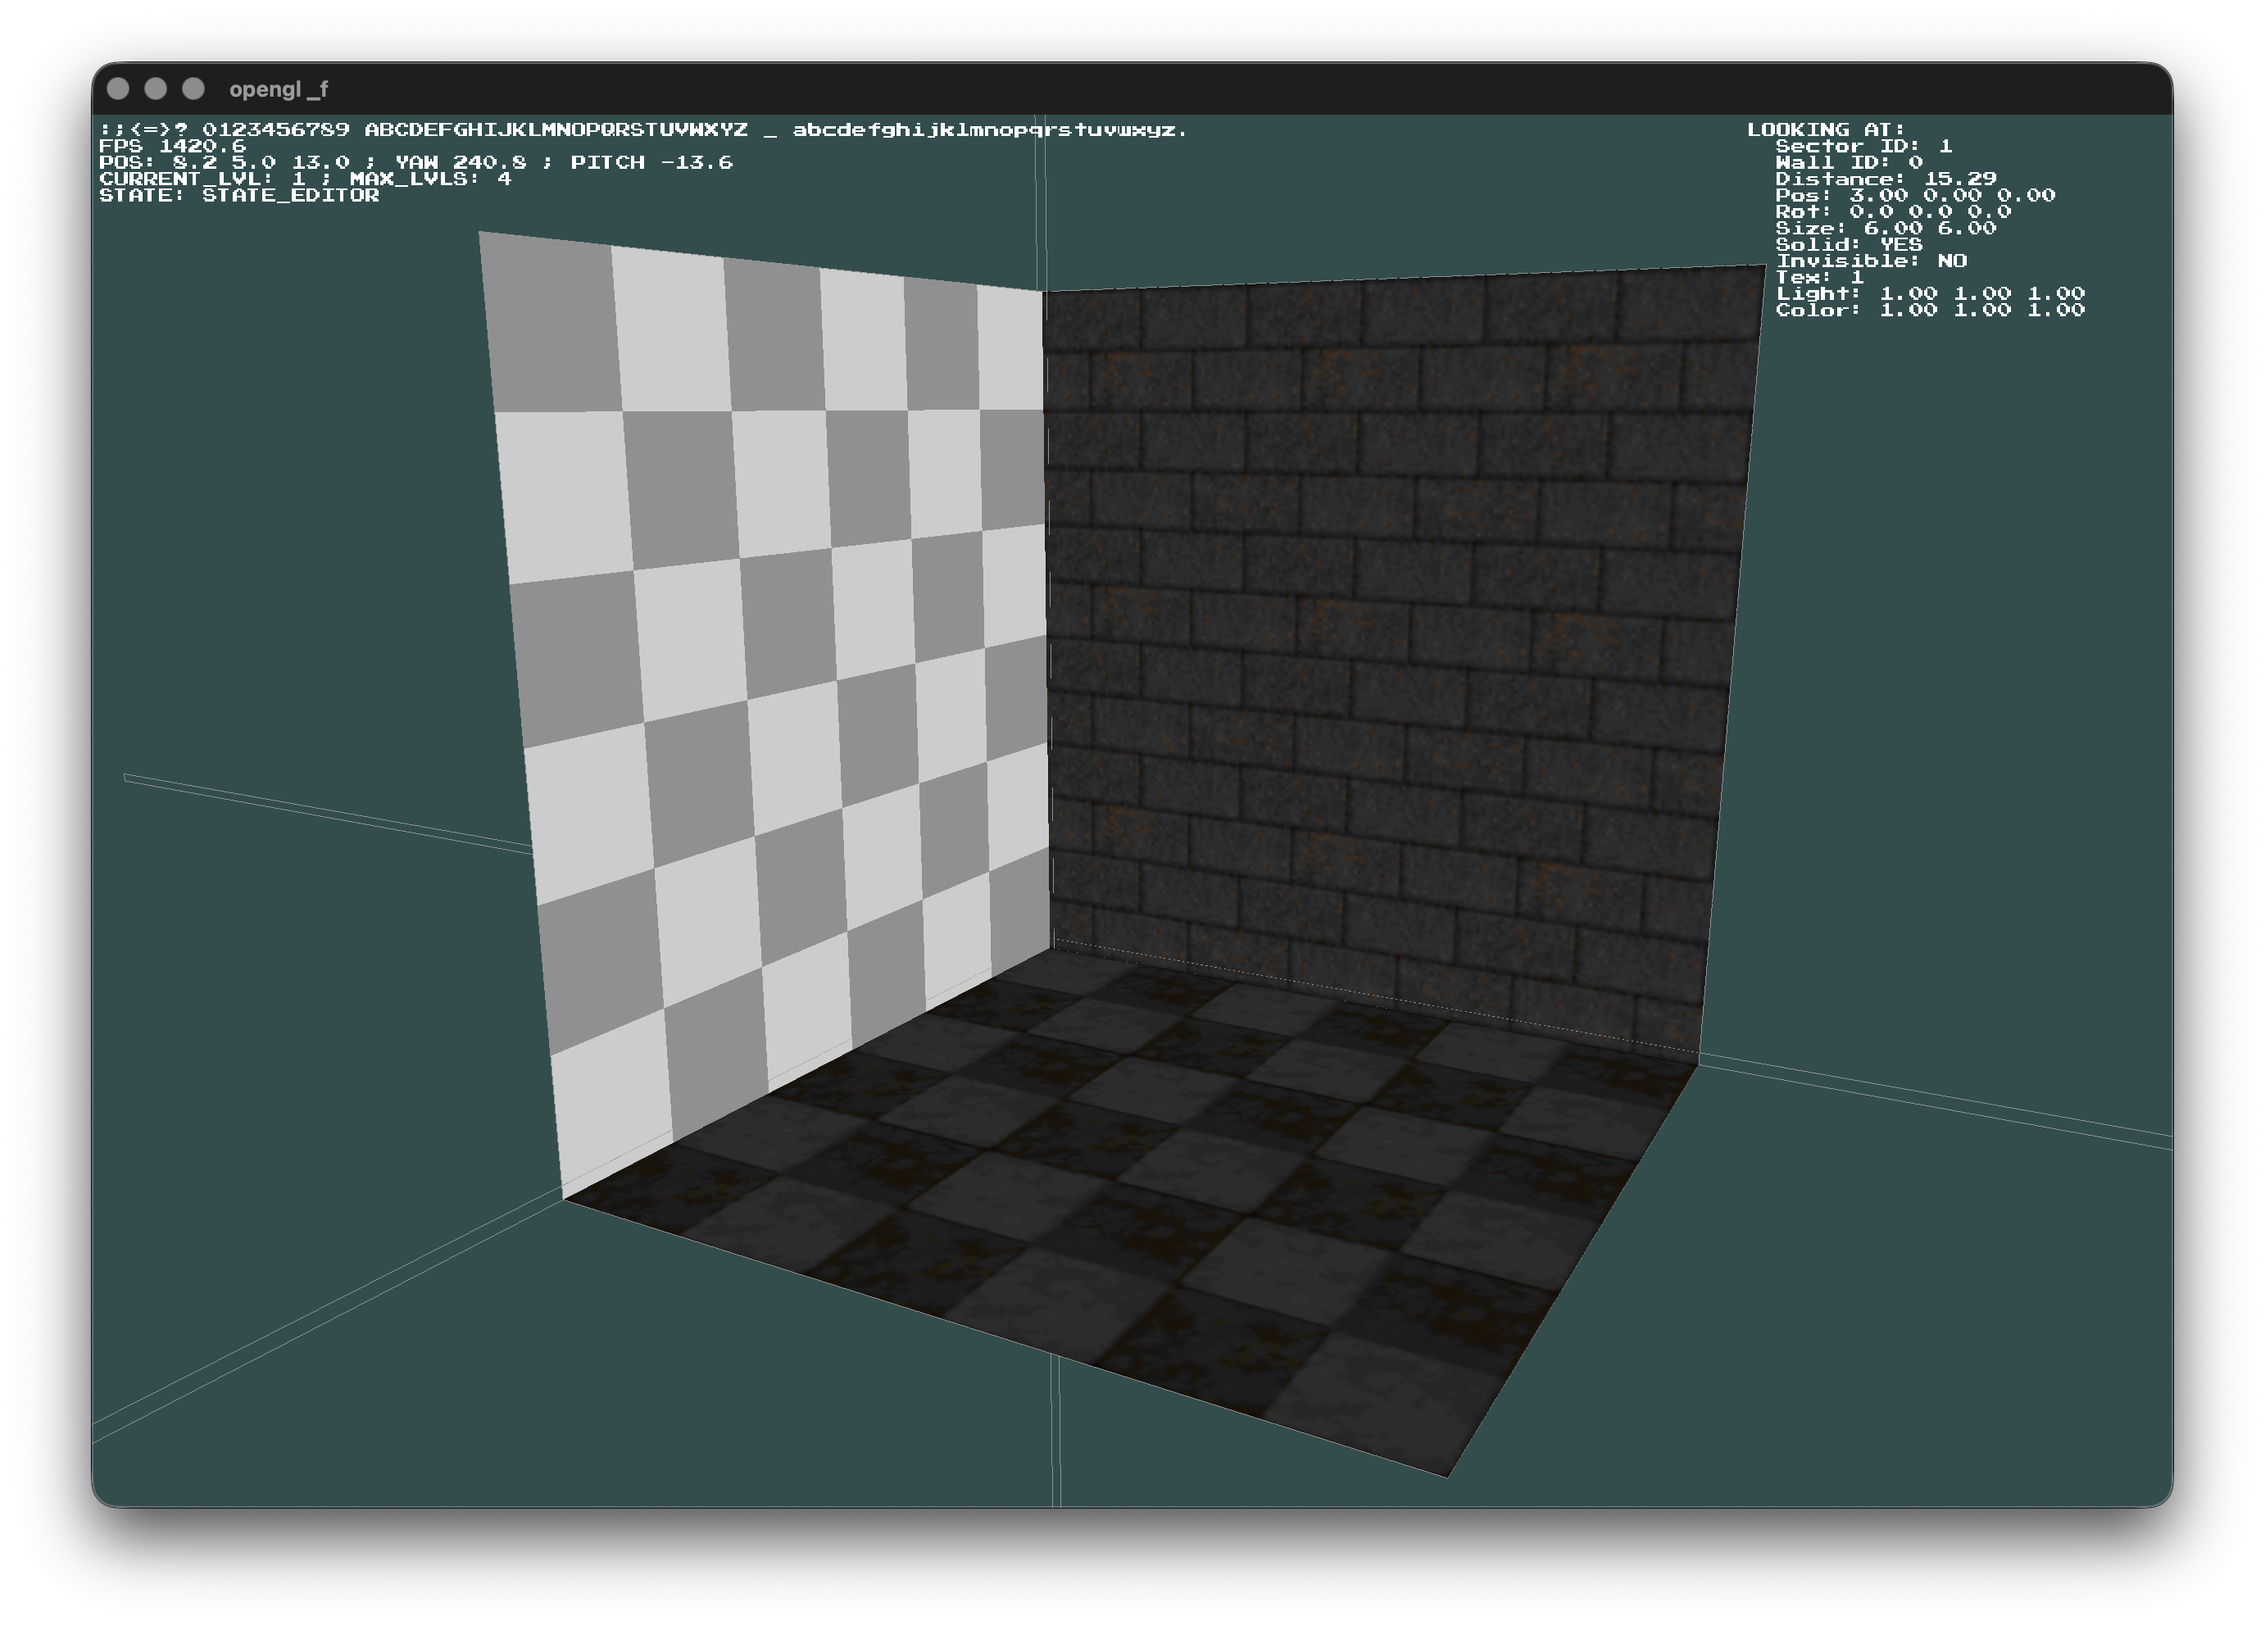
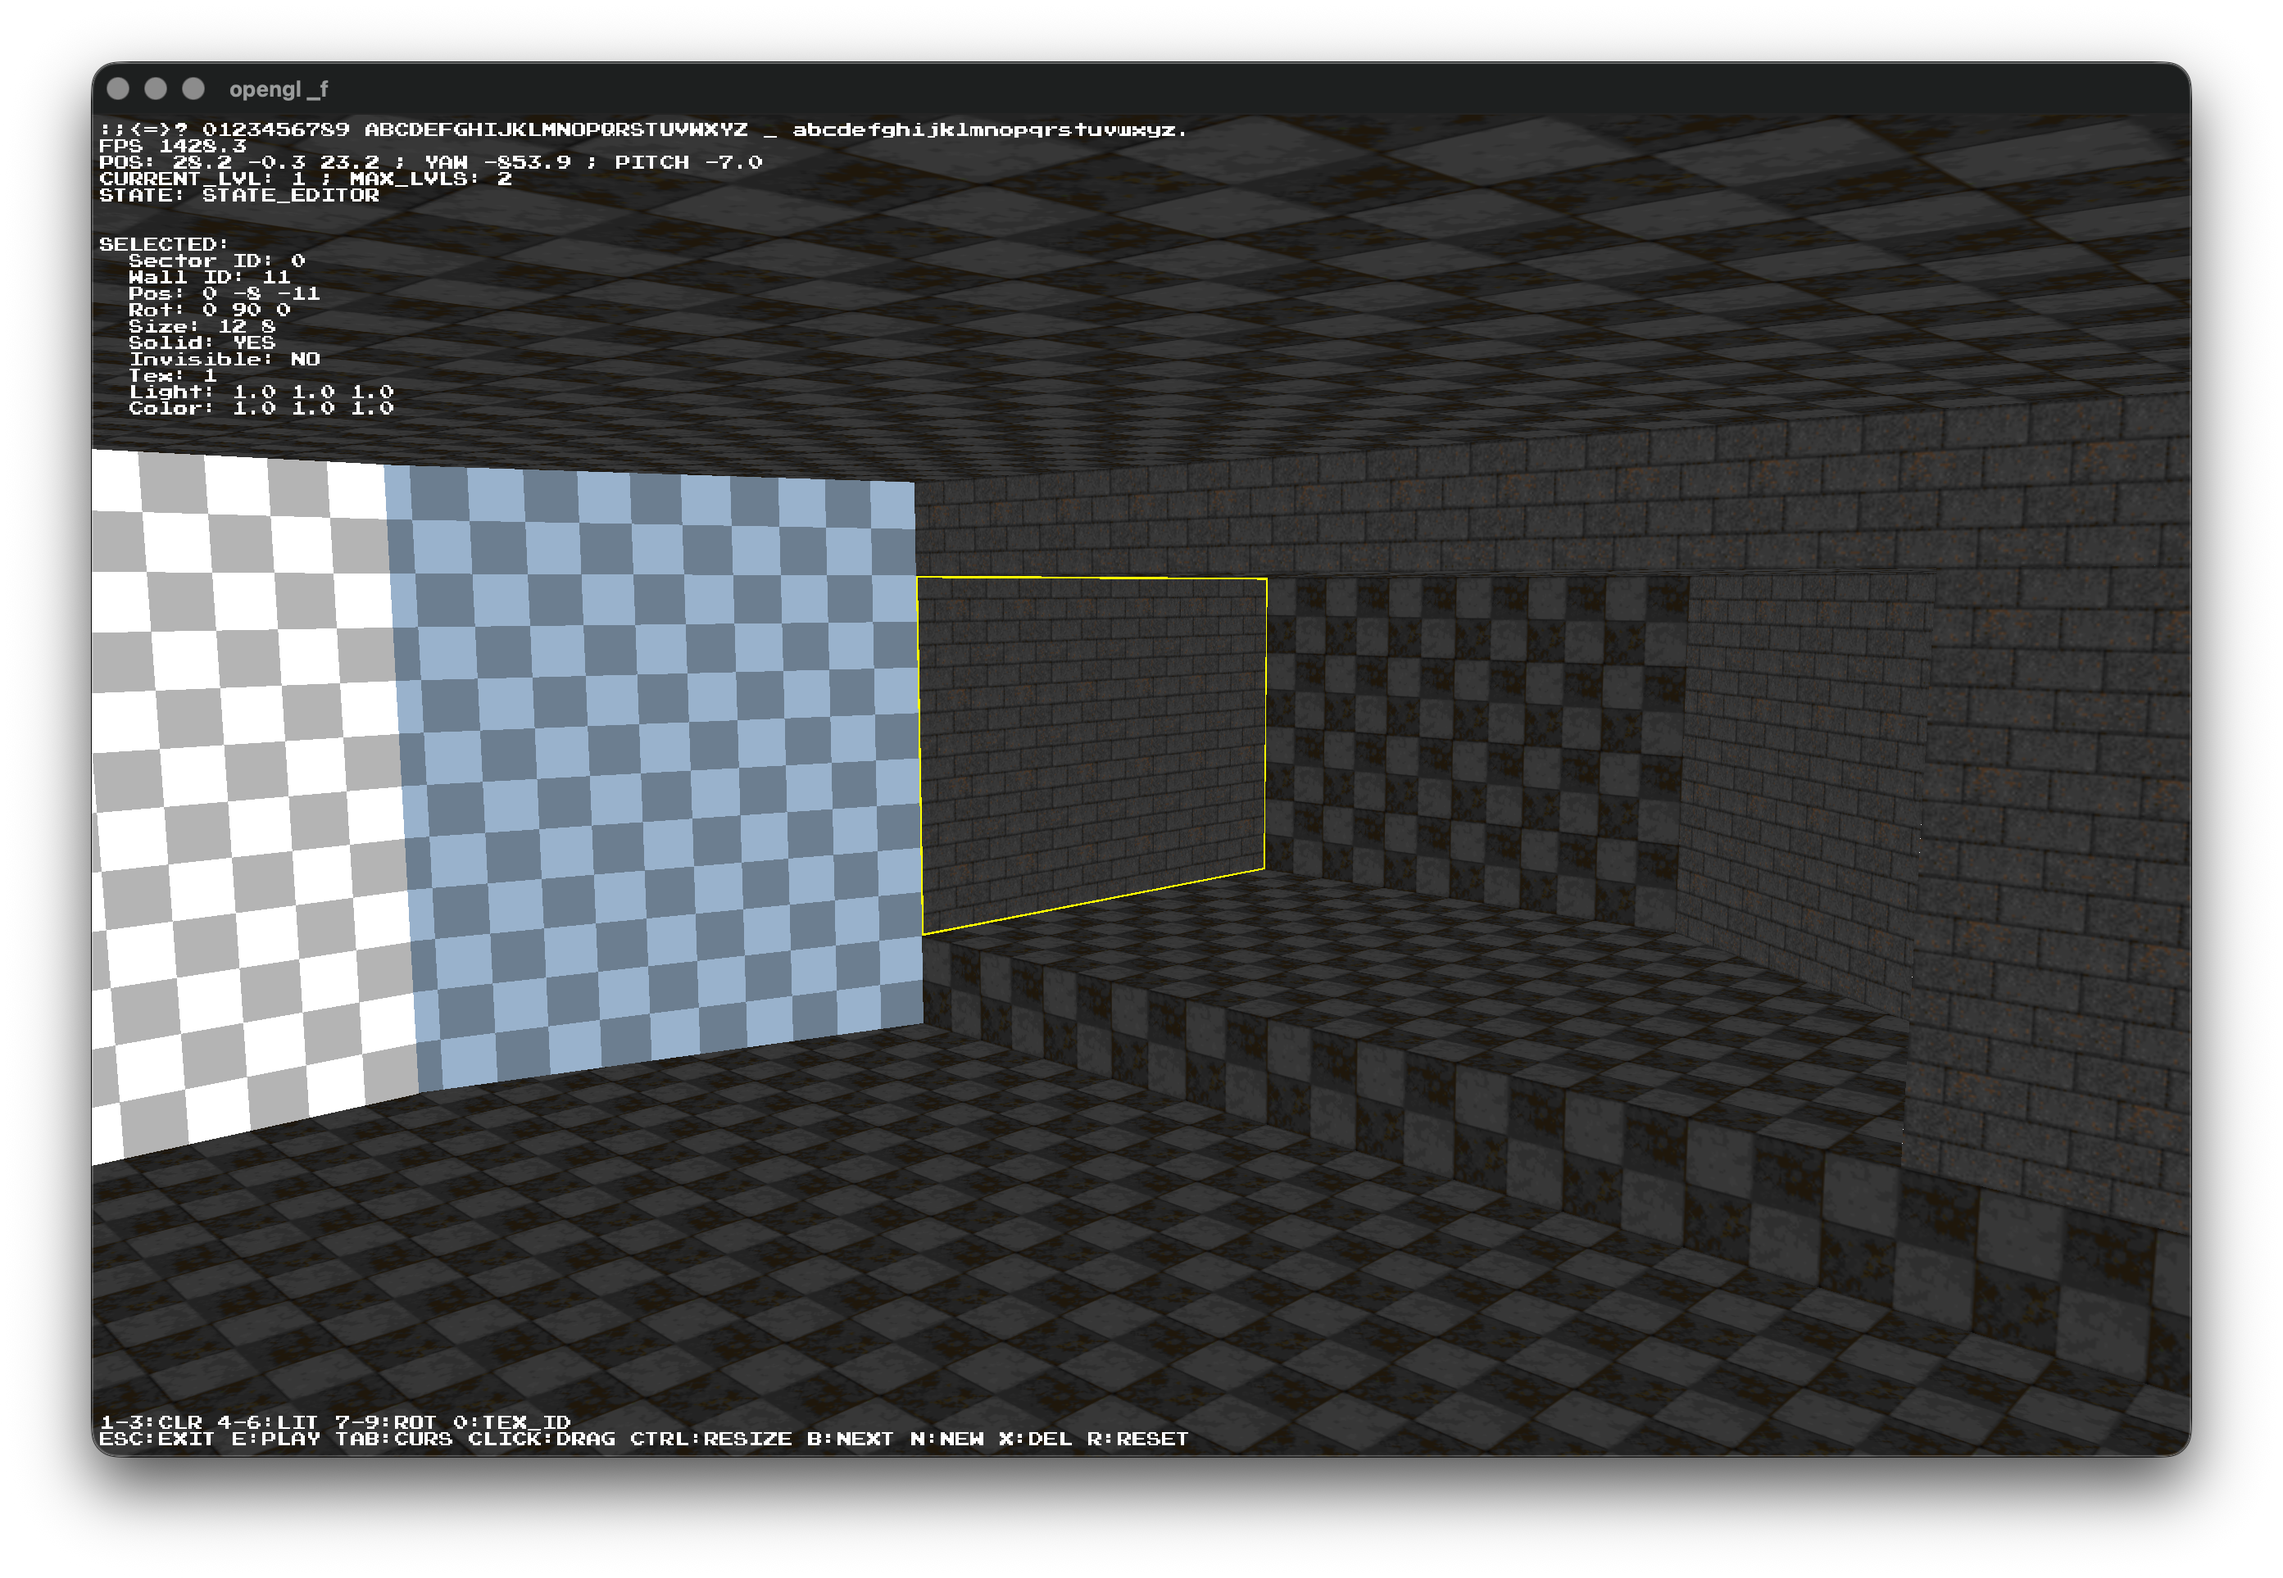
editor video out now

diff --git a/Engine/res/level1.h b/Engine/res/level1.h
@@ -5,7 +5,7 @@
 
 static level_quad_t level1_sector0_quads[] = {
     { .pos = {0, 0, 1}, .rot = {90, 0, 0}, .size = {21, 12}, .tex_idx = 0, .is_solid = true, .is_invisible = false, .color = {1.0f, 1.0f, 1.0f} },
-    { .pos = {-0, 0, 1}, .rot = {0, 0, 0}, .size = {33, 2}, .tex_idx = 1, .is_solid = true, .is_invisible = false, .color = {1.0f, 1.0f, 1.0f} },
+    { .pos = {0, 0, 1}, .rot = {0, 0, 0}, .size = {33, 2}, .tex_idx = 1, .is_solid = true, .is_invisible = false, .color = {1.0f, 1.0f, 1.0f} },
     { .pos = {12, -8, -11}, .rot = {0, 33, 0}, .size = {12, 8}, .tex_idx = 1, .is_solid = true, .is_invisible = false, .color = {1.0f, 1.0f, 1.0f} },
     { .pos = {21, -8, -11}, .rot = {0, 90, 0}, .size = {12, 8}, .tex_idx = -1, .is_solid = true, .is_invisible = false, .color = {1.0f, 1.0f, 1.0f} },
     { .pos = {-3, 2, 23}, .rot = {90, 0, 0}, .size = {31, 22}, .tex_idx = 0, .is_solid = true, .is_invisible = false, .color = {1.0f, 1.0f, 1.0f} },
@@ -13,7 +13,7 @@ static level_quad_t level1_sector0_quads[] = {
     { .pos = {-3, -10, 11}, .rot = {0, 90, 0}, .size = {12, 12}, .tex_idx = -1, .is_solid = true, .is_invisible = false, .color = {1.0f, 1.0f, 1.0f} },
     { .pos = {21, -8, 1}, .rot = {0, 0, 0}, .size = {12, 8}, .tex_idx = 1, .is_solid = true, .is_invisible = false, .color = {1.0f, 1.0f, 1.0f} },
     { .pos = {0, -10, 1}, .rot = {0, 0, 0}, .size = {33, 2}, .tex_idx = 0, .is_solid = true, .is_invisible = false, .color = {1.0f, 1.0f, 1.0f} },
-    { .pos = {-0, -8, 1}, .rot = {90, 0, 0}, .size = {21, 12}, .tex_idx = 0, .is_solid = true, .is_invisible = false, .color = {1.0f, 1.0f, 1.0f} },
+    { .pos = {0, -8, 1}, .rot = {90, 0, 0}, .size = {21, 12}, .tex_idx = 0, .is_solid = true, .is_invisible = false, .color = {1.0f, 1.0f, 1.0f} },
     { .pos = {0, -8, -11}, .rot = {0, 0, 0}, .size = {12, 8}, .tex_idx = 0, .is_solid = true, .is_invisible = false, .color = {1.0f, 1.0f, 1.0f} },
     { .pos = {0, -8, -11}, .rot = {0, 90, 0}, .size = {12, 8}, .tex_idx = 1, .is_solid = true, .is_invisible = false, .color = {1.0f, 1.0f, 1.0f} },
     { .pos = {-5, -10, 24}, .rot = {90, 0, 0}, .size = {37, 23}, .tex_idx = 0, .is_solid = true, .is_invisible = false, .color = {1.0f, 1.0f, 1.0f} },
@@ -35,7 +35,7 @@ static inline level_data_t load_1(void)
         .sectors = level1_sectors,
         .sector_count = sizeof(level1_sectors) / sizeof(level1_sectors[0]),
         .cam_pos = {28.214f, -0.252f, 23.220f},
-        .cam_yaw = -853.918f,
+        .cam_yaw = -854.118f,
         .cam_pitch = -6.985f
     };
 }

diff --git a/main.c b/main.c
@@ -8,9 +8,39 @@
 /*
  * TL:DR
  * > start with 'make'
+ *
  * > press b to switch between all levels
- * > press e to enter editor mode
- * > walk look around w a s d + mouse
+ *
+ * > press tab to toggle between mouse locking
+ *
+ * > press e to switch betwen editor mode ... :
+ *  > at the bottom of the screen is a small legend which button does what 
+ *
+ *  > press 1 2 3 to increase r g b color value ... 
+ *  > press shift + 1 2 3 to decrease r g b color value
+ *
+ *  > press 4 5 6 to increase r g b sector light ...
+ *  > press shift + 4 5 6 to decrease r g b sector light
+ *
+ *  > press 7 8 9 to increase x y z rotational values ...
+ *  > press shift + 7 8 9 to decrease x y z rotational values 
+ *
+ *  > press 0 to cycles through textures
+ *
+ *  > dragging drags the quad 
+ *
+ *  > dragging + ctrl resizes on dragging at pink edges
+ *
+ *  > press n to create a new default quad
+ *  > press n while a quad is selected duplicates that quad 
+ *
+ *  > press x to delete a quad
+ *
+ *  > press r to reset the attributes of a quad
+ *
+ * > and play mode:
+ *  > press w a s d to walk around
+ *  > use mouse to look around
  */
 
 void apply_level_camera(level_data_t* level)

diff --git a/Engine/editor.c b/Engine/editor.c
@@ -58,7 +58,7 @@ static void render_wall_quad(const level_quad_t* quad, const vec4s color)
 
     f32 hx = quad->size.x,
         hy = quad->size.y,
-        t = 0.05f, // Thickness 
+        t = 0.05f, // thickness 
         z = 0.0f;
 
     f32 vertices[] = {
@@ -322,7 +322,6 @@ void editor_update()
         }
     } else x_pressed = false;
 
-    // Discrete/Continuous editing with fixed steps
     static f32 adj_timers[9] = {0};
     static const int adj_keys[] = { GLFW_KEY_1, GLFW_KEY_2, GLFW_KEY_3, GLFW_KEY_4, GLFW_KEY_5, GLFW_KEY_6, GLFW_KEY_7, GLFW_KEY_8, GLFW_KEY_9 };
     for (int i = 0; i < 9; i++) {
@@ -446,7 +445,7 @@ static void render_resize_markers(const level_quad_t* quad, editor_edge_t edge, 
     GLint model_loc = glGetUniformLocation(state.data->program, "model");
     glUniformMatrix4fv(model_loc, 1, GL_FALSE, model);
 
-    f32 t = 0.05f; // Thickness
+    f32 t = 0.05f; // thickness
     f32 z = 0.0f;
     f32 v[32]; // 4 vertices * (3 pos + 3 color + 2 uv)
 
